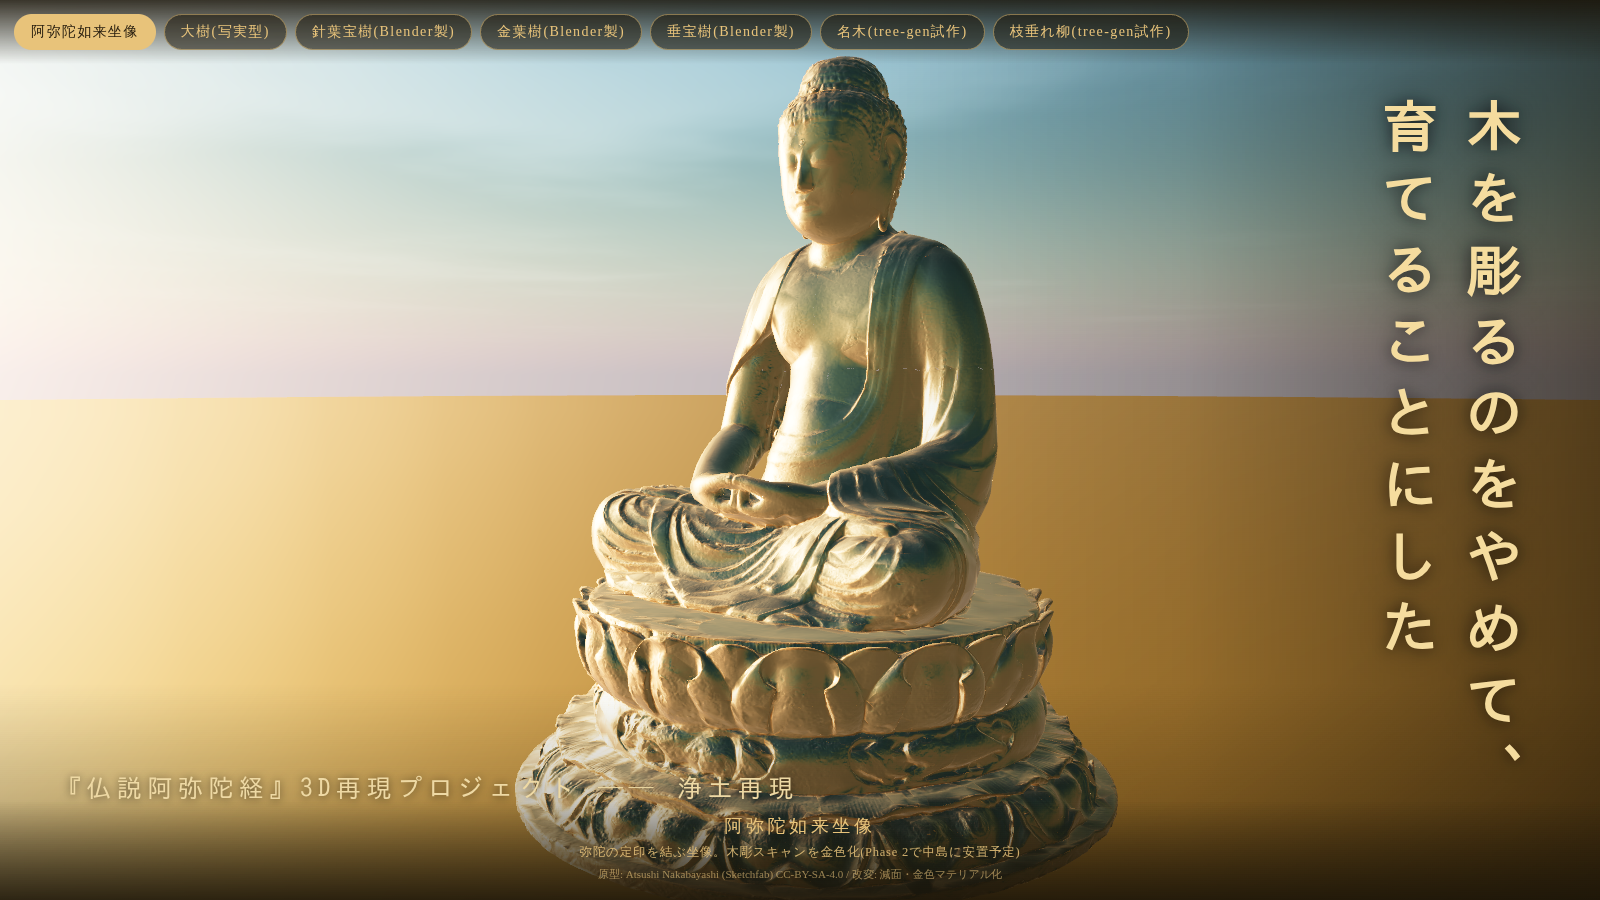
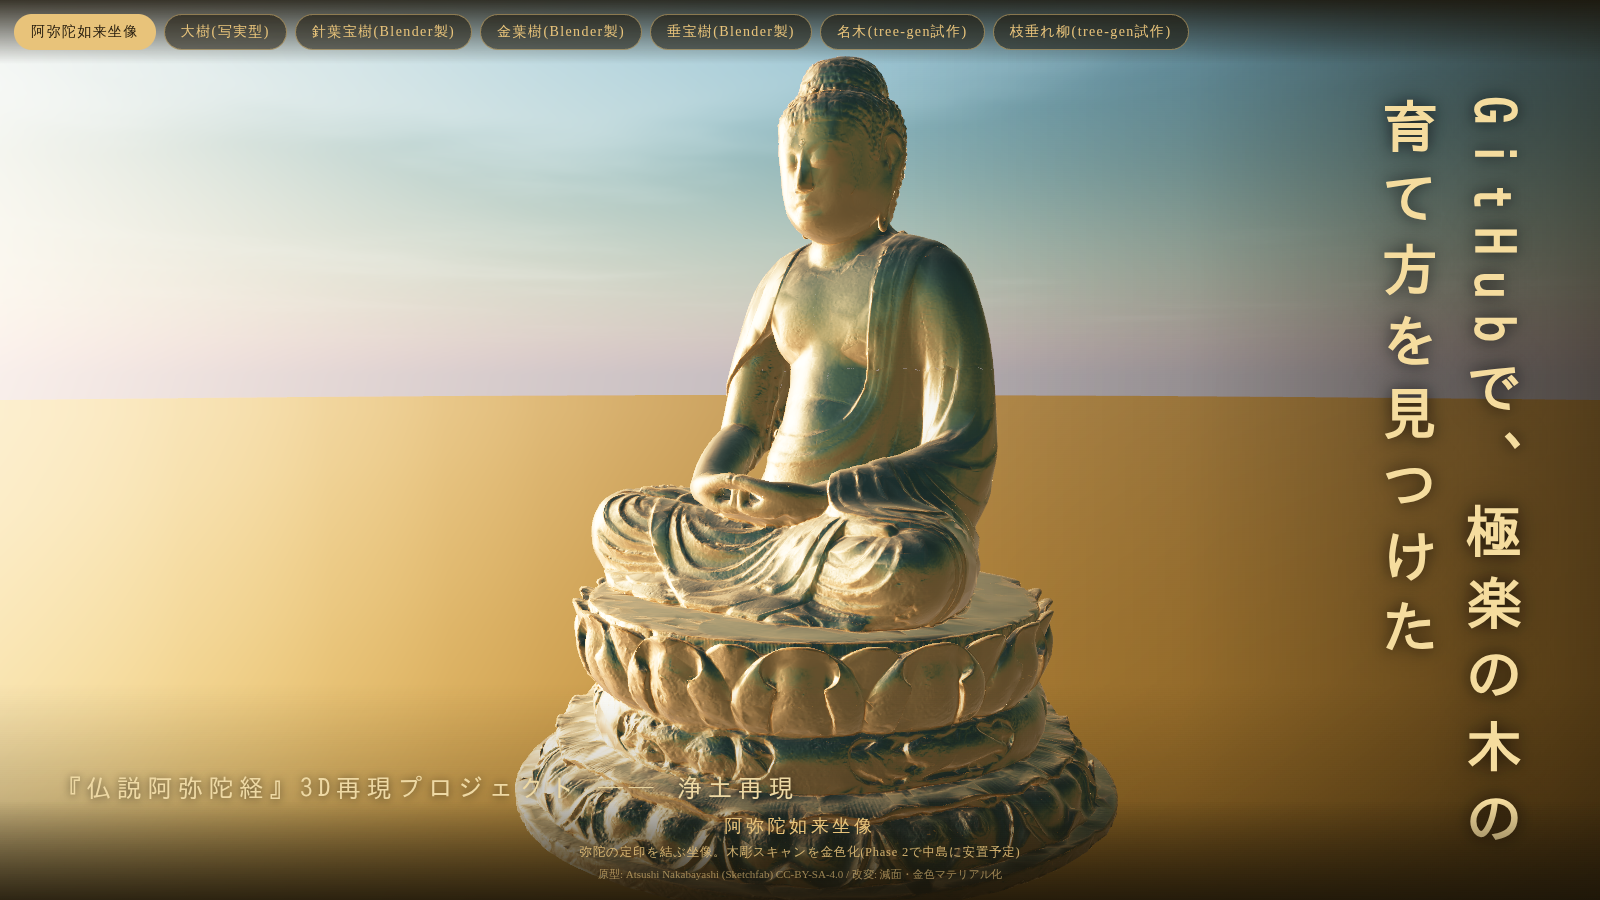
日記を具体的な内容に書き直し(GitHub検索とtree-gen採用の経緯)
- ツール名・手法名・数字を明示する書き方に変更
- スキルにも「具体性を優先する」ルールを追加
- サムネイルのタイトルを新記事に合わせて更新

Claude-Session: https://claude.ai/code/session_01XdLfVRKBa8Hb4r2rFjBsaX

Changed region(s): [[0.8438, 0.0933, 0.9688, 0.9333]]

diff --git a/diary/2026-08-16-X投稿用.md b/diary/2026-08-16-X投稿用.md
@@ -1,65 +1,65 @@
-木を彫るのをやめて、育てることにした
+GitHubで、極楽の木の育て方を見つけた
 
-『仏説阿弥陀経』に説かれた極楽浄土を、ブラウザで歩ける3D空間として再現しています。
+『仏説阿弥陀経』の極楽浄土を、ブラウザで歩ける3D空間として再現しています。
 
-今日はまず、作りかけの世界をぜんぶ更地に戻しました。
+今日の作業は三つでした。
 
-池も、七重の並木も、いったん撤去。
+作りかけの世界をいったん更地に戻すこと。
 
-代わりに「陳列室」を建てました。
+部材を一体ずつ回して確認できる「アセットギャラリー」という陳列室ページを作ること。
 
-仏像も木も、これから作る蓮華も、まず一体ずつこの部屋に並べて、吟味してから世界に安置する。
-
-仏壇職人の工房と同じ段取りです。
+そして、極楽の並木になる木のモデルを作り直すことです。
 
 ⸻
 
-それから、木と格闘しました。
+木は、Blenderという3D制作ソフトをプログラムから動かして作っています。
 
-Blenderという3D工房で、円錐を重ね、枝を生やし、金貨のような葉を一枚ずつ散らす。
+円錐の葉を五段に重ねた針葉樹。
 
-三度作り直して、それなりの姿にはなりました。
+金貨のような丸い葉を五百枚散らした、金の銀杏。
 
-でも、どこか嘘くさい。
+三度作り直して、それなりの見た目にはなりました。
 
-自分の彫った木は、自分の想像力の外に出てくれないのです。
+それでも、本物の木の複雑さには届かない。
 
-⸻
-
-行き詰まって、世界中の作り手たちの知恵を探しました。
-
-すると、ありました。
-
-1995年に発表された「植物学的な樹木の生成」という論文と、それを受け継いで磨かれてきたプログラムが。
-
-幹の分かれ方、枝の垂れ方、葉のつき方。
-
-三十年ぶんの観察と工夫が、パラメータの束になって公開されていました。
-
-樹種を選んで数字を渡すと、幹が立ち、枝が分かれ、一万五千本の小枝の先に十三万枚の葉がつく。
-
-彫ったのではありません。
-
-育ったのです。
-
-画面の中に金の葉を茂らせた大樹と、枝先まで金がこぼれる枝垂れ柳が立ったとき、思わず声が出ました。
+枝の分かれ方が、どうしても単調になるのです。
 
 ⸻
 
-これを「他力だなあ」と書きたくなって、手が止まりました。
+行き詰まって、世界中の開発者がプログラムを公開しているGitHubというサイトを検索しました。
 
-他力とは、人さまの力を借りることではなく、阿弥陀さまの願いのはたらきを指すことば。
+「Blender 手続き的樹木生成」。
 
-だからここで使えば誤用です。
+見つかったのが「tree-gen」という無料公開のツールです。
 
-それでも、自分の腕にこだわるのをやめた途端に道が開けた、という順番だけは、どこか念仏の入り口に似ている気がしています。
+ウェーバーとペンという研究者が1995年に発表した、植物観察に基づく樹木生成の論文を、Blenderで動くように実装したもの。
 
-はからいを手放したところに、いちばん良い木が生えました。
+樅、オーク、桜、竹、枝垂れ柳と、20種の樹種データまで付いています。
+
+さっそく樹種を選んで動かすと、幹が立ち、枝が枝を呼び、十三万枚の葉が茂りました。
+
+ただし素のままでは900万ポリゴン。
+
+ブラウザで表示するには重すぎるため、枝の階層をひとつ減らし、葉を「少なく大きく」に調整して、およそ100分の1まで軽くしました。
+
+金の葉を茂らせた大樹と、枝先まで金がこぼれる枝垂れ柳。
+
+今日いちばんの出来です。
+
+この方法で、極楽の木々を育てていくことに決めました。
 
 ⸻
 
-陳列室には、いま七本の木と阿弥陀さまの坐像が並んでいます。
+自分の腕で彫るのをやめ、先人の三十年の知恵に任せた途端、いちばん良い木が生えました。
 
-次は、この木々を世界に植え、中島に阿弥陀さまをお迎えする工程です。
+はからいを手放したところに、道が開ける。
+
+念仏の入り口と、少し似ています。
+
+⸻
+
+陳列室には、いま七本の木と阿弥陀さまの坐像が並びました。
+
+次は、この木々を世界に植え、池の中島に阿弥陀さまをお迎えする工程です。
 
 続きは、また書きますね。

diff --git a/.claude/skills/x-worklog/SKILL.md b/.claude/skills/x-worklog/SKILL.md
@@ -74,9 +74,17 @@ description: 浄土再現プロジェクトの作業記録をX(旧Twitter)投稿
 2. SendUserFileで記事とサムネイルをチャットに添付
 3. 投稿タイミングの提案があれば一言添える(例:大きな節目の直後は引きが強い)
 
+## 具体性を優先する(2026-08-16に施主が指示)
+
+抽象的な物語より、具体的な事実で書く。ツール名(GitHub、Blender、tree-gen等)、
+手法名、数字(ポリゴン数、葉の枚数、何分の1に軽くした等)は積極的に出してよい。
+「検索したら参考になる方法が見つかって、その方法で作ることにした」のような
+行動と決定の流れがそのまま読者への情報になる。
+ただし専門用語には短い言い換えを添える(例:「Blenderという3D制作ソフト」)。
+
 ## してはいけないこと
 
-- 記事に技術用語の羅列(ポリゴン数などの数字は多くて2つまで。物語に効く場合のみ)
+- 技術用語を説明なしに羅列すること(数字や固有名詞は歓迎、羅列は退屈)
 - 誇張や、実装していない機能の予告(「〜する予定です」は次フェーズの1件だけ許容)
 - 個人情報(Vault名、ローカルパス、メールアドレス)を記事に入れること
 - サムネイルの使い回し(その日の変化が画に出ることが記録の意味)
